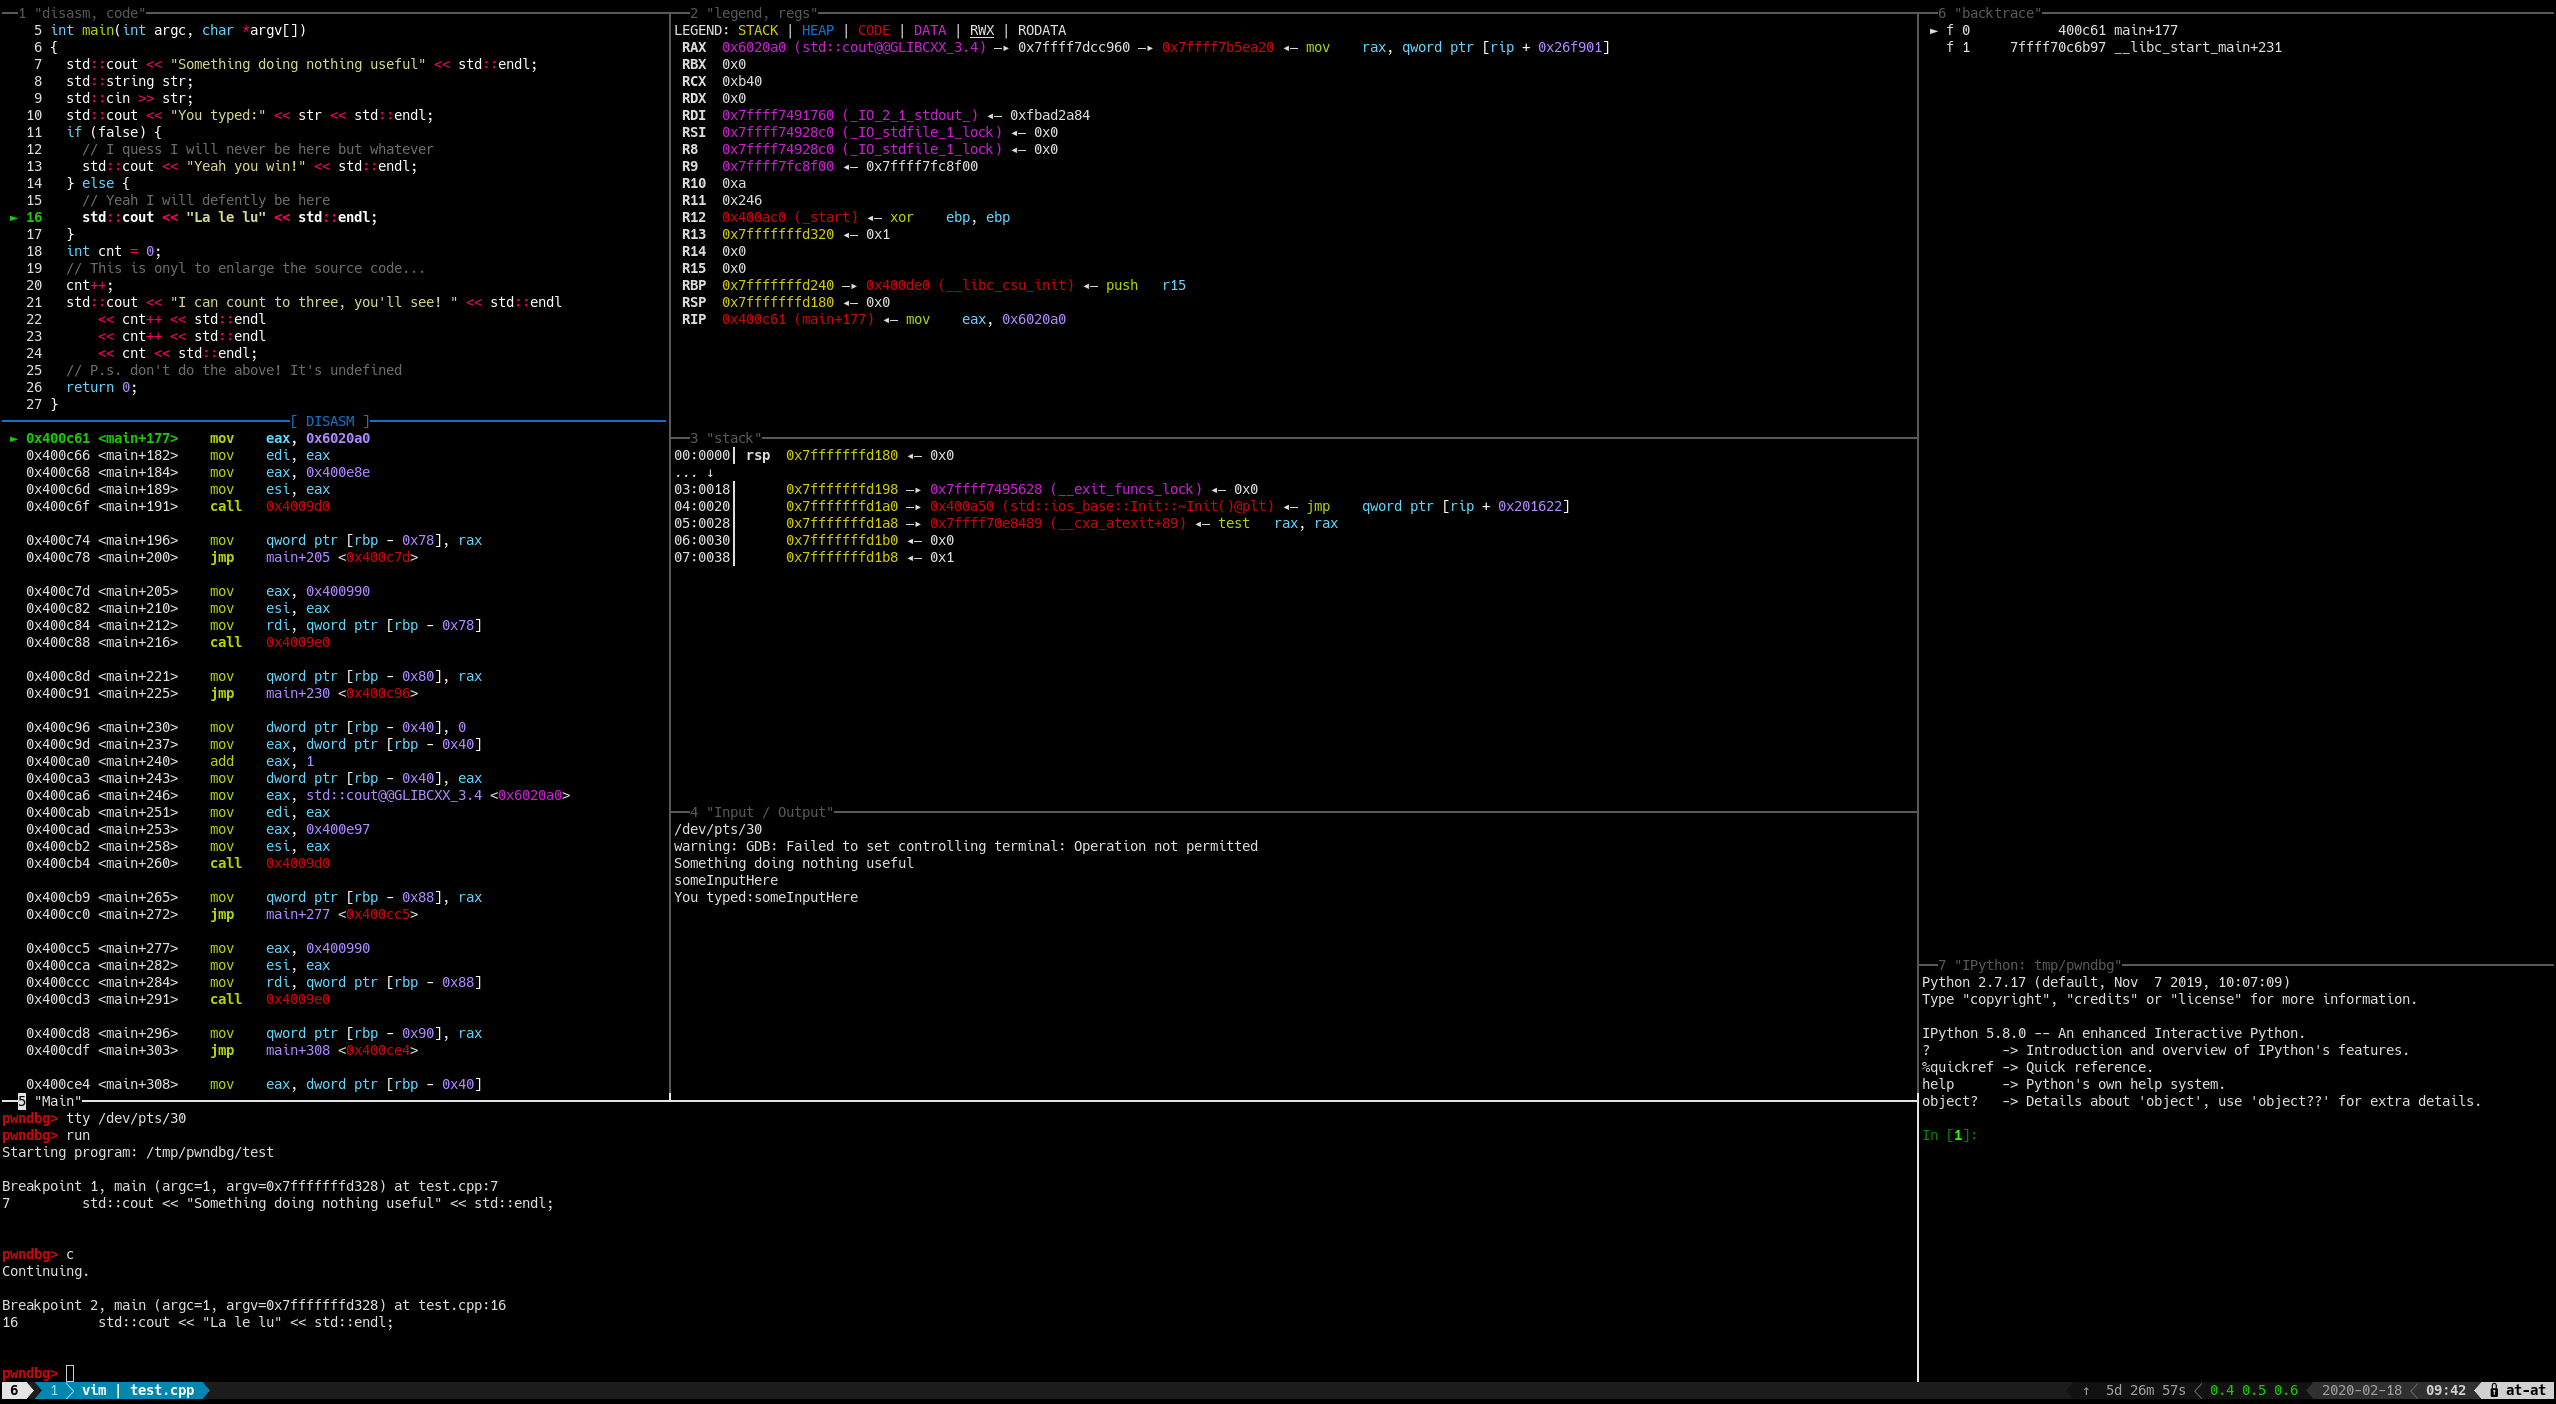
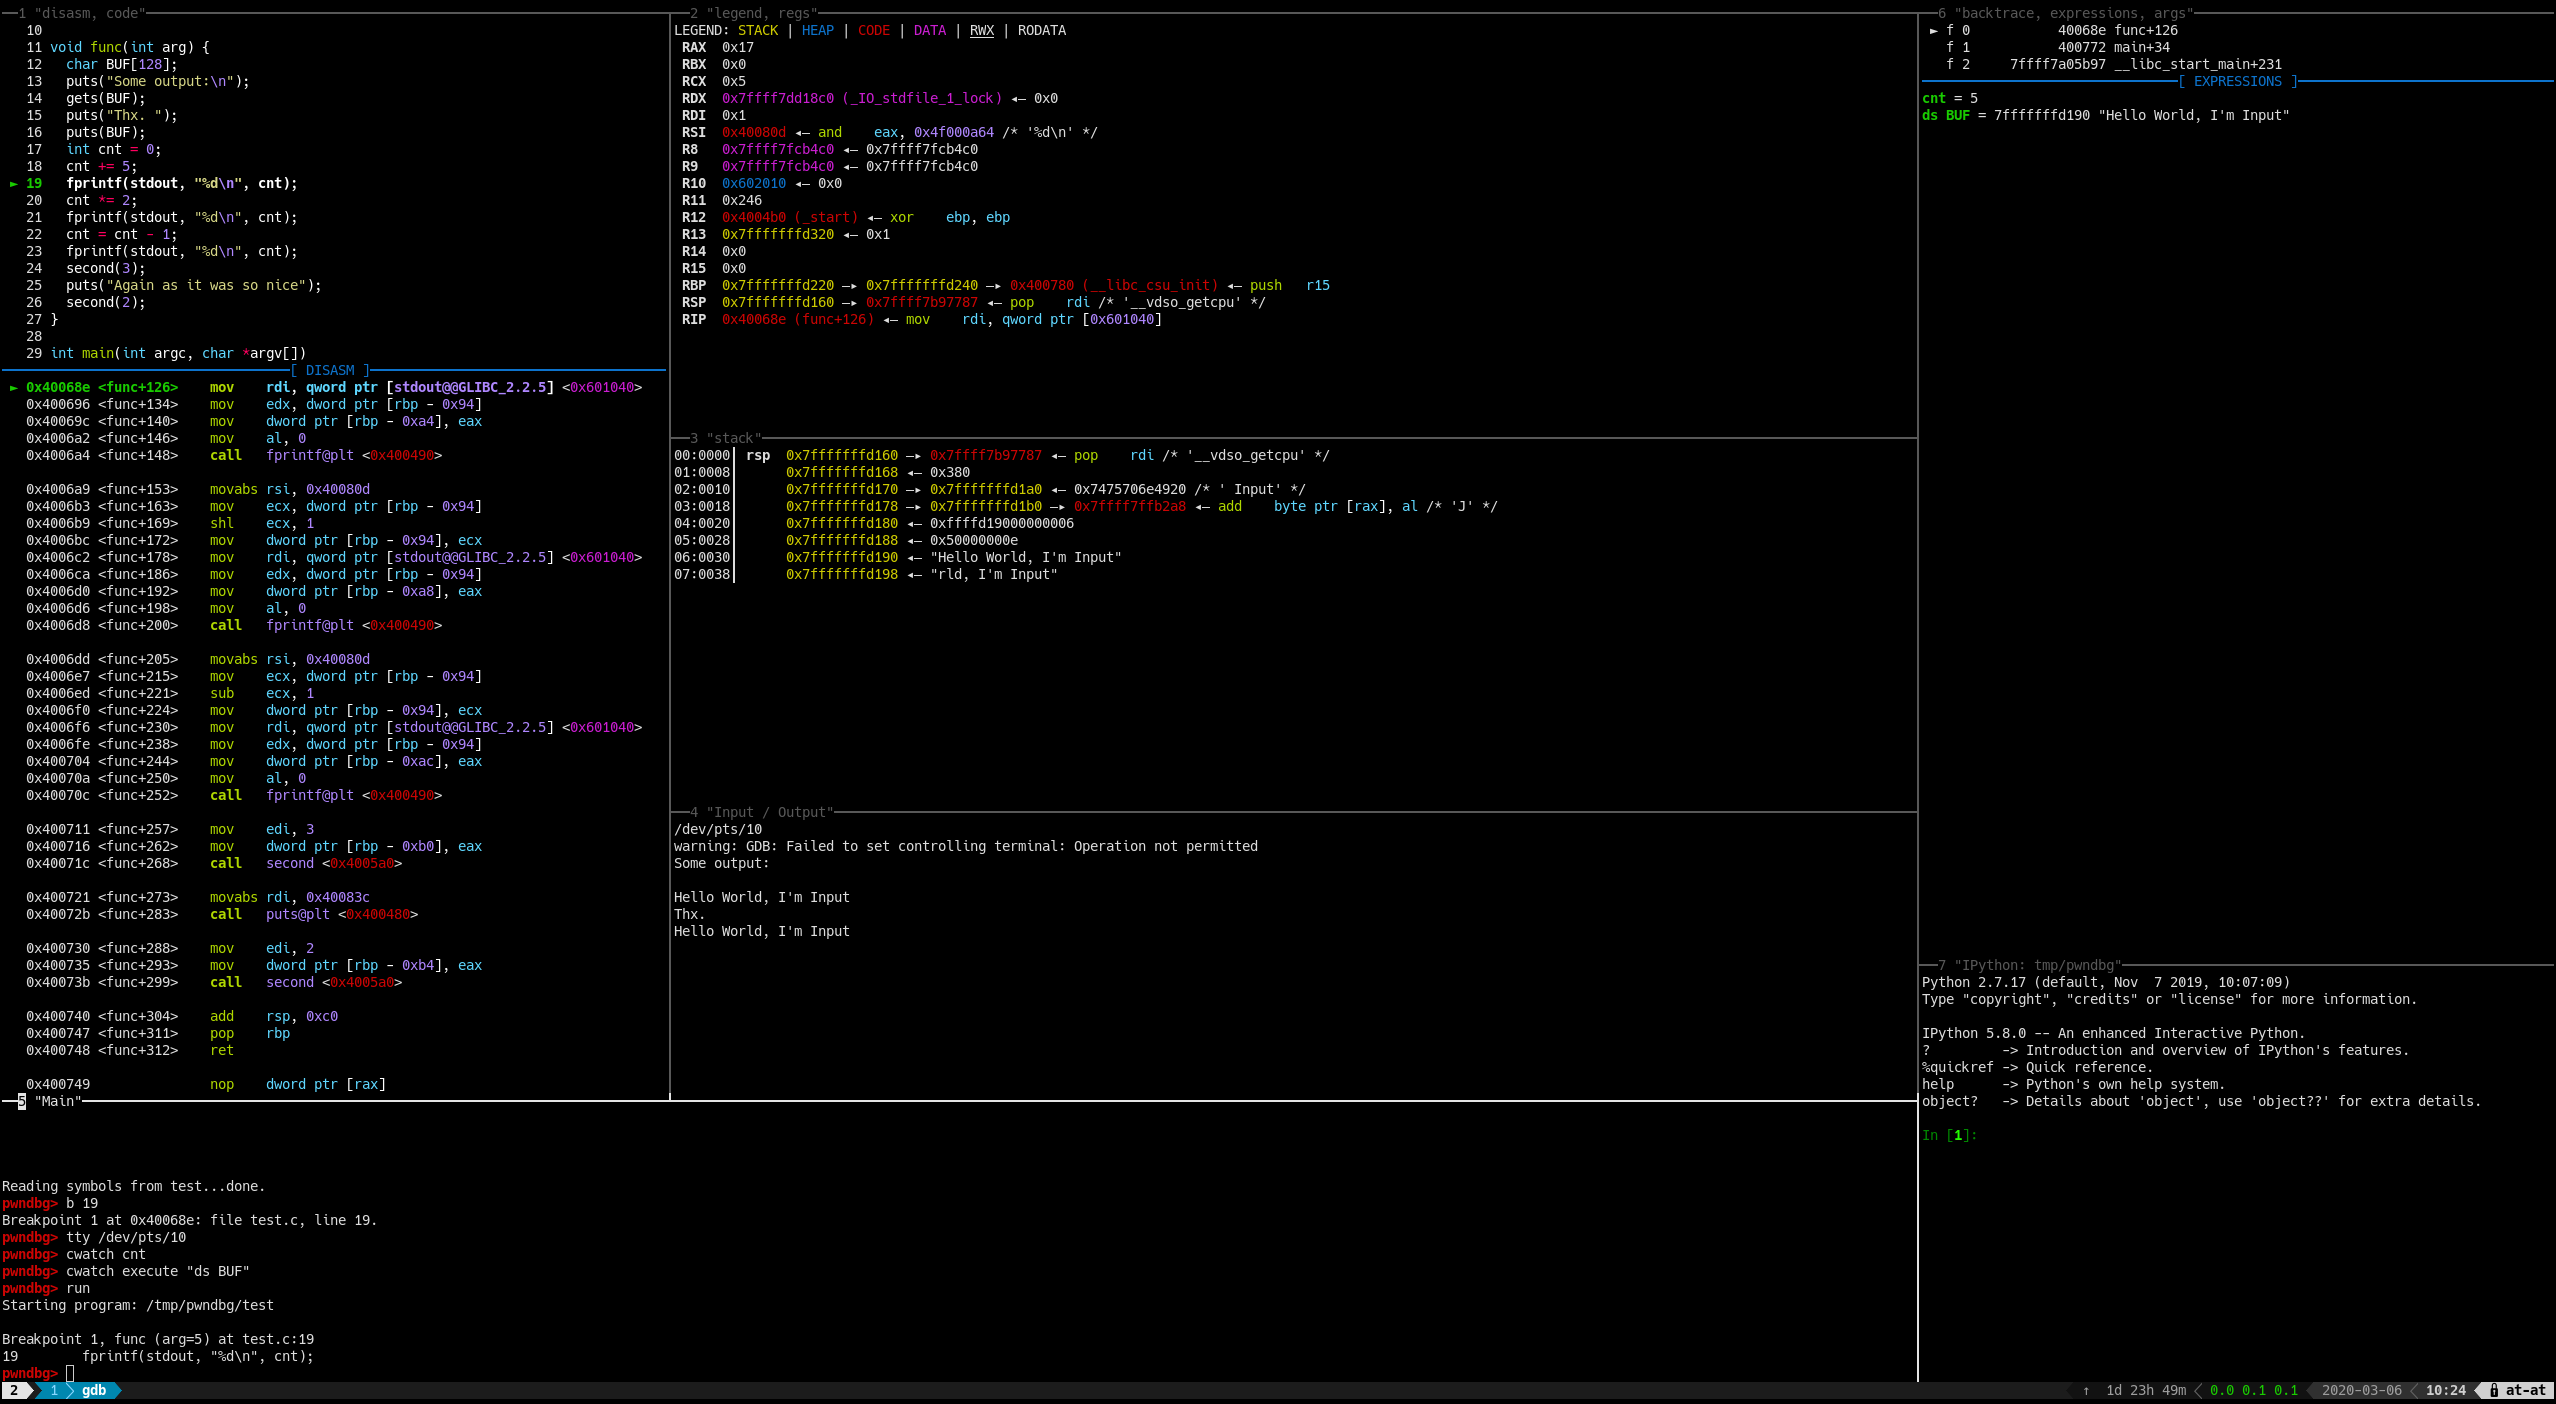
[WIP] Context watches expressions (#711)
* Feature: context watches

* Added expressions to splitting screenshot

* More readable code (review)

diff --git a/pwndbg/commands/context.py b/pwndbg/commands/context.py
@@ -47,7 +47,7 @@ def clear_screen(out=sys.stdout):
 config_clear_screen = pwndbg.config.Parameter('context-clear-screen', False, 'whether to clear the screen before printing the context')
 config_output = pwndbg.config.Parameter('context-output', 'stdout', 'where pwndbg should output ("stdout" or file/tty).')
 config_context_sections = pwndbg.config.Parameter('context-sections',
-                                                  'regs disasm code stack backtrace',
+                                                  'regs disasm code stack backtrace expressions',
                                                   'which context sections are displayed (controls order)')
 
 # Storing output configuration per section
@@ -149,6 +149,64 @@ def contextoutput(section, path, clearing, banner="both", width=None):
                                     width=width,
                                     banner_top= banner in ["both", "top"],
                                     banner_bottom= banner in ["both", "bottom"])
+
+# Watches
+expressions = set()
+expression_commands = {
+    "eval": gdb.parse_and_eval,
+    "execute": lambda exp: gdb.execute(exp, False, True)
+}
+
+parser = argparse.ArgumentParser()
+parser.description = """
+Adds an expression to be shown on context.
+
+'cmd' controls what command is used to interpret the expression.
+eval: the expression is parsed and evaluated as in the debugged language
+execute: the expression is executed as an gdb command
+"""
+parser.add_argument("cmd", type=str, default="eval", nargs="?",
+                    help="Command to be used with the expression. Values are: eval execute")
+parser.add_argument("expression", type=str, help="The expression to be evaluated and shown in context")
+@pwndbg.commands.ArgparsedCommand(parser, aliases=['ctx-watch', 'cwatch'])
+def contextwatch(expression, cmd=None):
+    expressions.add((expression, expression_commands.get(cmd, gdb.parse_and_eval)))
+
+parser = argparse.ArgumentParser()
+parser.description = """Removes an expression previously added to be watched."""
+parser.add_argument("expression", type=str, help="The expression to be removed from context")
+@pwndbg.commands.ArgparsedCommand(parser, aliases=['ctx-watch', 'cunwatch'])
+def contextunwatch(expression):
+    global expressions
+    expressions = set((exp,cmd) for exp,cmd in expressions if exp != expression)
+
+def context_expressions(target=sys.stdout, with_banner=True, width=None):
+    if not expressions:
+        return []
+    banner = [pwndbg.ui.banner("expressions", target=target, width=width)]
+    output = []
+    if width is None:
+        _height, width = pwndbg.ui.get_window_size(target=target)
+    for exp,cmd in sorted(expressions):
+        try:
+            # value = gdb.parse_and_eval(exp)
+            value = str(cmd(exp))
+        except gdb.error as err:
+            value = str(err)
+        value = value.split("\n")
+        lines = []
+        for line in value:
+            if width and len(line)+len(exp)+3 > width:
+                n = width - (len(exp)+3) - 1 # 1 Padding...
+                lines.extend(line[i:i+n] for i in range(0, len(line), n))
+            else:
+                lines.append(line)
+
+        fmt = C.highlight(exp)
+        lines[0] = "{} = {}".format(fmt, lines[0])
+        lines[1:] = [" "*(len(exp)+3) + line for line in lines[1:]]
+        output.extend(lines)
+    return banner + output if with_banner else output
 
 # @pwndbg.events.stop
 
@@ -498,7 +556,8 @@ context_sections = {
     'a': context_args,
     'c': context_code,
     's': context_stack,
-    'b': context_backtrace
+    'b': context_backtrace,
+    'e': context_expressions,
 }
 
 

diff --git a/FEATURES.md b/FEATURES.md
@@ -21,6 +21,8 @@ The output of the context may be redirected to a file (including other tty) by u
 
 ![](caps/context.png)  
 
+### Splitting / Layouting Context
+
 The context sections can be distibuted among different tty by using the `contextoutput` command.
 Example: `contextoutput stack /path/to/tty true`
 
@@ -67,6 +69,25 @@ import splitmind
 end
 ```
 
+### Watch Expressions
+
+You can add expressions to be watched by the context.
+Those expressions are evaluated and shown on every context refresh.
+
+An expression can be added via the `contextwatch` command (aliased `ctx-watch` and `cwatch`).
+
+Per default an expression is parsed and evaluated in the debugged language and can be added with:
+```
+contextwatch BUF
+ctx-watch ITEMS[0]
+```
+
+Alternatively one can provide an arbitrary gdb command to be executed and the result printed in the
+context by using the optional `cmd` parameter with the value `execute`:
+```
+contextwatch exectue "ds BUF"
+cwatch execute "x/20x $rsp"
+```
 
 
 ## Disassembly
